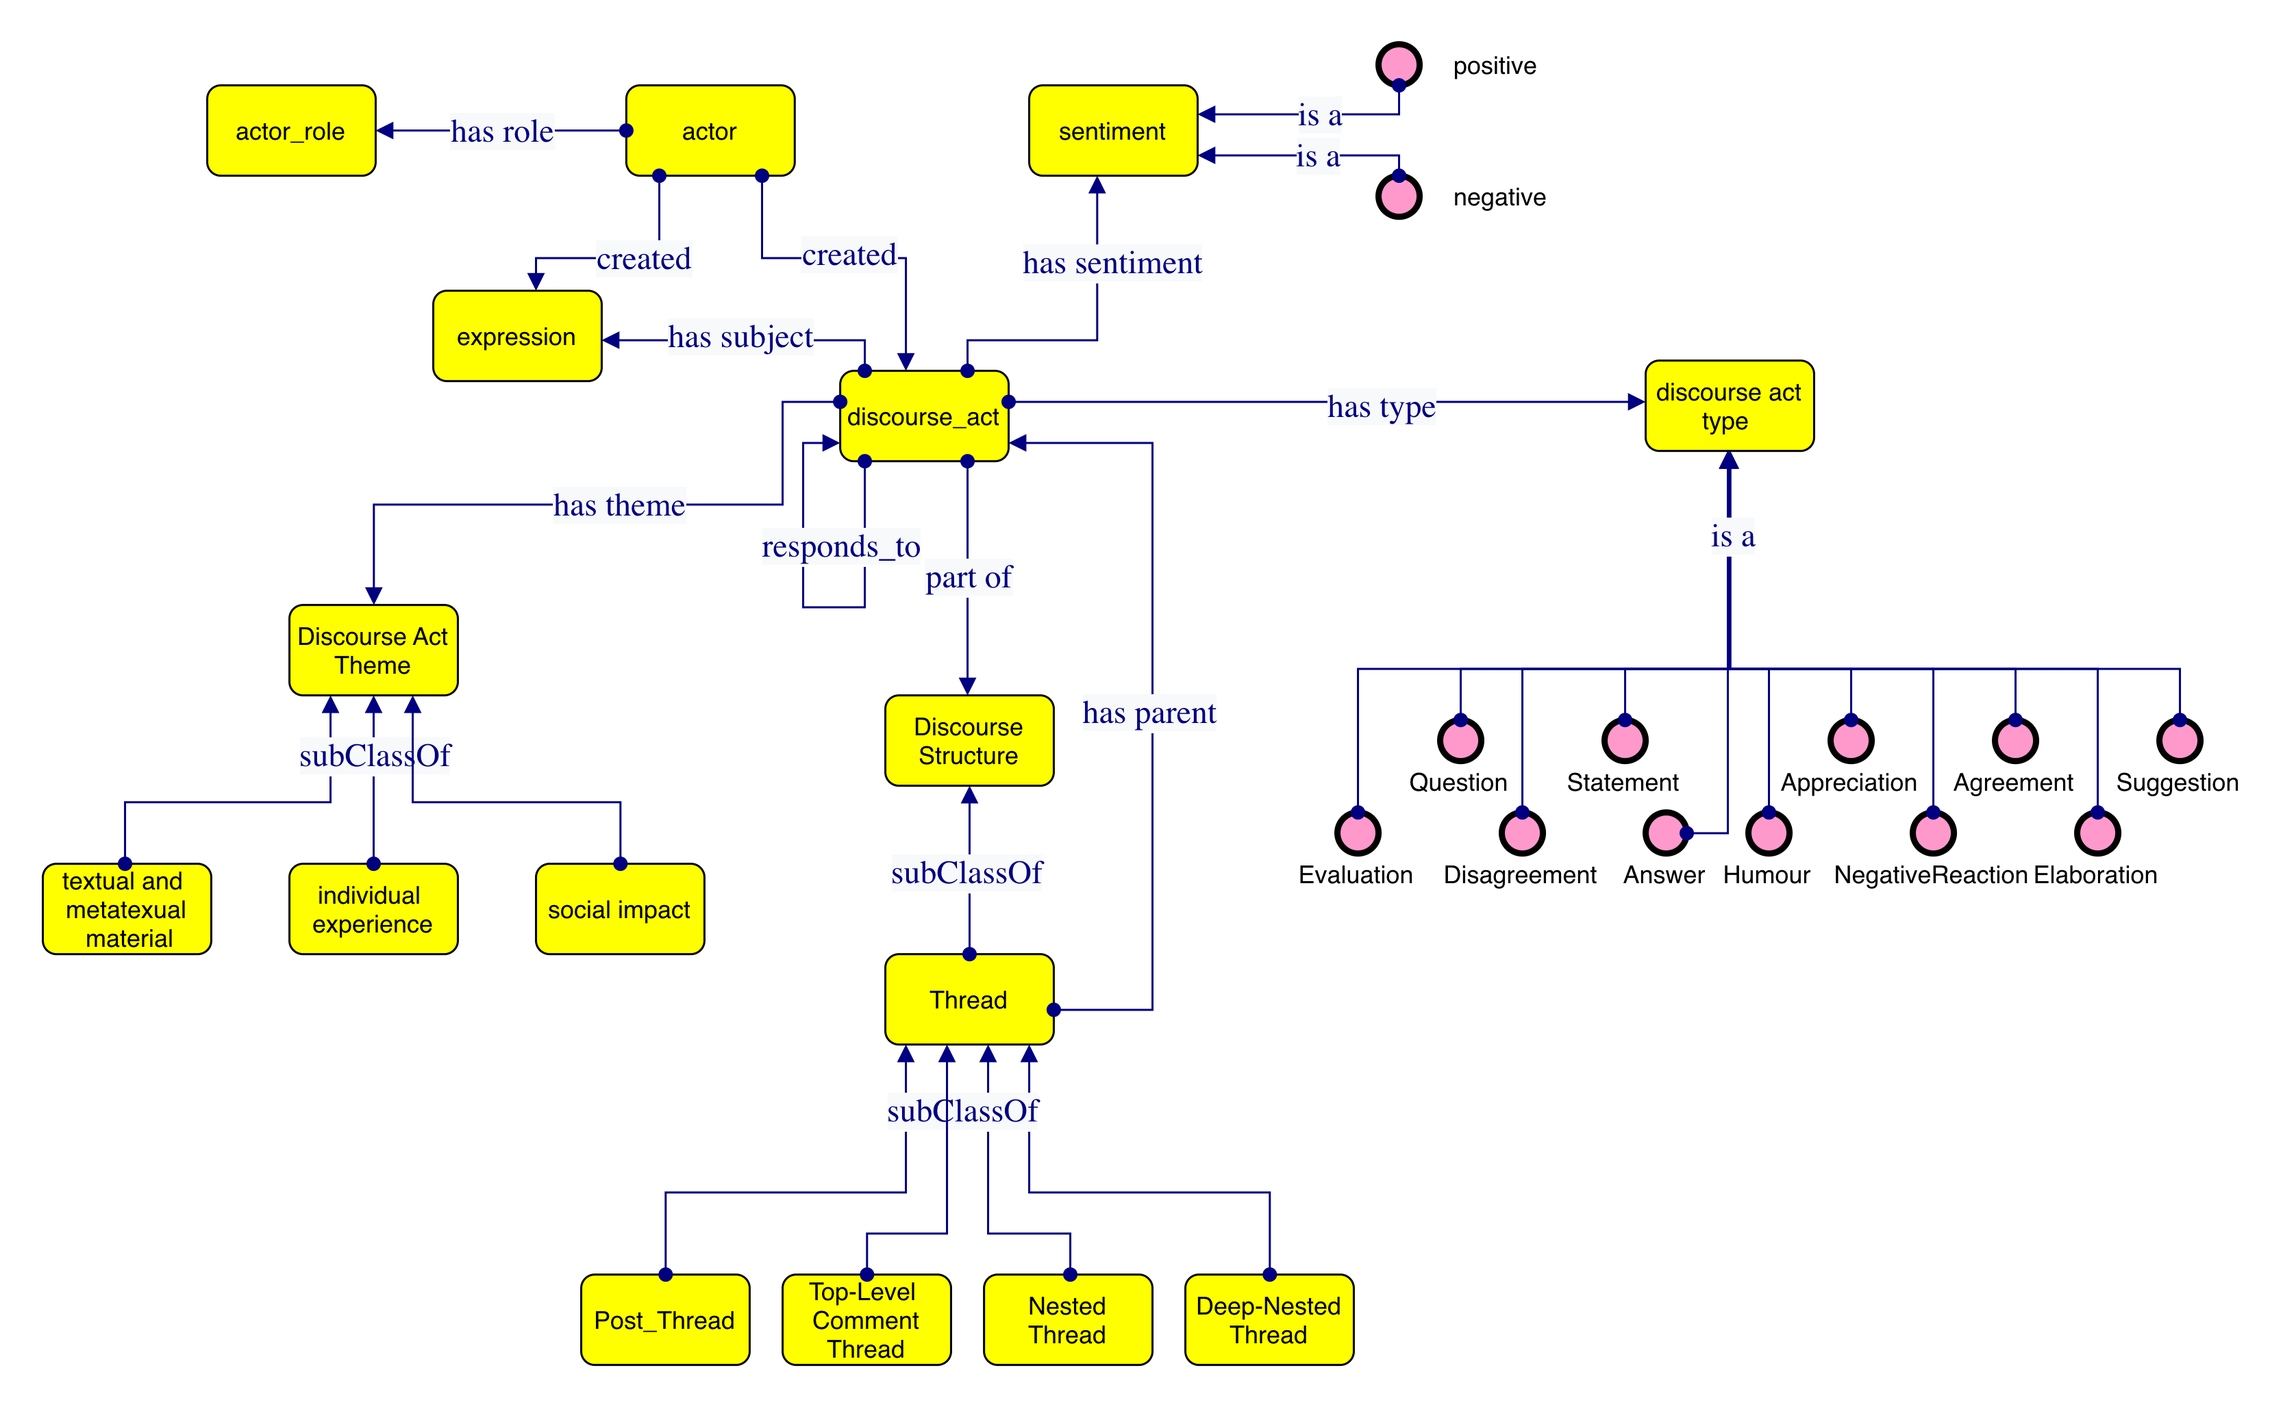
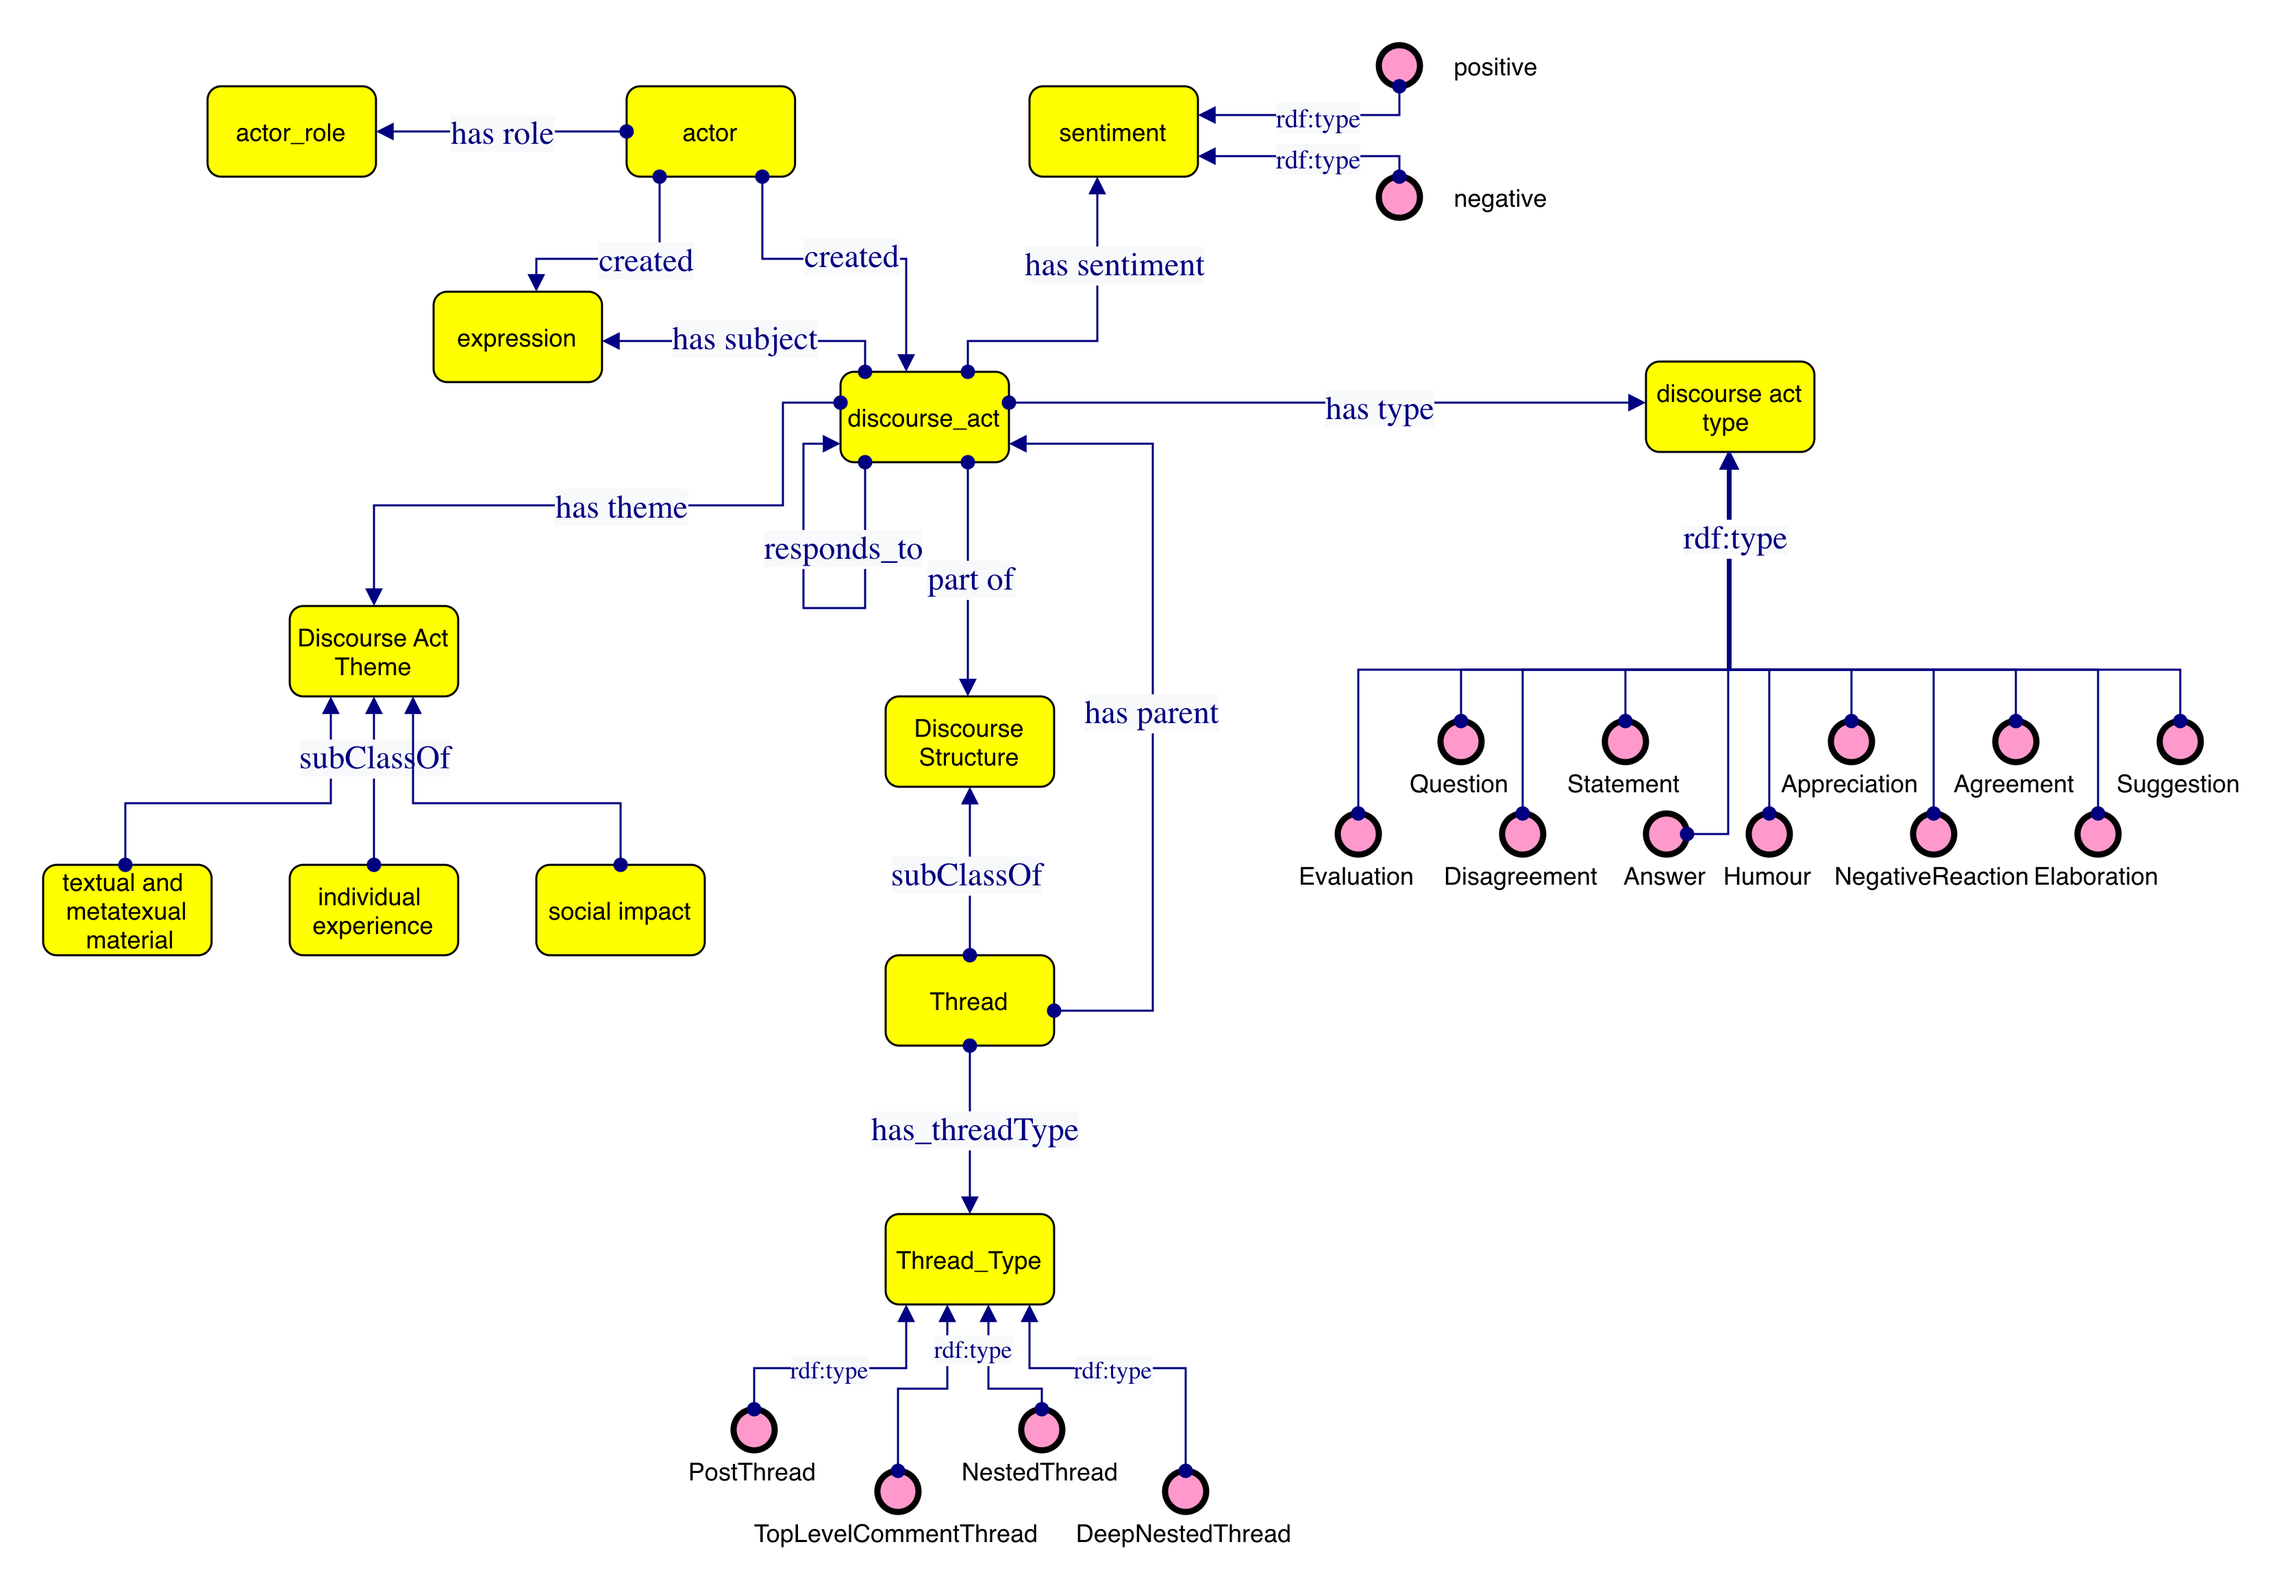
sparql queries

diff --git a/reader_response_module/development/03/modelet_Abox.py b/reader_response_module/development/03/modelet_Abox.py
@@ -25,6 +25,7 @@ g.add((
 DISCOURSE_ACT = RESPONSE_ONT.Discourse_Act
 EXPRESSION = RESPONSE_ONT.Expression
 ACTOR = RESPONSE_ONT.Actor
+THREAD = RESPONSE_ONT.Thread
 
 # read the csv
 # change path to new data modelet
@@ -55,7 +56,7 @@ with open("reader_response_module/development/03/modelet_goodreads.csv", newline
         clause_uri = RESPONSE_DATA[row["clause_id"].strip()]
         g.add((clause_uri, RDF.type, DISCOURSE_ACT))
         g.add((clause_uri, RESPONSE_ONT.has_value, Literal(row["clause_content"].strip())))
-        g.add((clause_uri, RESPONSE_ONT.has_type, RESPONSE_DATA[row["clause_type"].strip()]))
+        g.add((clause_uri, RESPONSE_ONT.has_type, RESPONSE_ONT[row["clause_type"].strip()]))
         if row["clause_theme"]:
             g.add((clause_uri, RESPONSE_ONT.has_theme, RESPONSE_ONT[row["clause_theme"].strip()]))
         if row["clause_sentiment"]:
@@ -76,6 +77,7 @@ with open("reader_response_module/development/03/modelet_ao3.csv", newline='', e
         exp_uri = RESPONSE_DATA["ao3Fanfic"]
         g.add((exp_uri, RDF.type, EXPRESSION))
         g.add((exp_uri, DCTERMS.title, Literal(row["comment_subject"].strip())))
+        g.add((RESPONSE_DATA[row["subject_actor"].strip()], RESPONSE_ONT.created, exp_uri))
 
         post_exp_uri = RESPONSE_DATA["ForeverGirl_Chapter1"]
         g.add((post_exp_uri, RDF.type, EXPRESSION))
@@ -118,12 +120,13 @@ with open("reader_response_module/development/03/modelet_reddit.csv", newline=''
         g.add((post_exp_uri, DCTERMS.title, Literal("Araburu Kisetsu no Otome-domo yo. - Thursday Anime Discussion Thread (ft. /r/anime Writing Club)")))
 
         anime_exp_uri = RESPONSE_DATA["anime"]
-        g.add((exp_uri, RDF.type, EXPRESSION))
-        g.add((exp_uri, DCTERMS.title, Literal(row["comment_subject"].strip())))
+        g.add((anime_exp_uri, RDF.type, EXPRESSION))
+        g.add((anime_exp_uri, DCTERMS.title, Literal(row["comment_subject"].strip())))
 
         #thread
         thread_uri = RESPONSE_DATA[row["thread_id"].strip()]
-        g.add((thread_uri, RDF.type, RESPONSE_ONT[row["thread_type"].strip()]))
+        g.add((thread_uri, RDF.type, THREAD))
+        g.add((thread_uri, RESPONSE_ONT.has_threadType, RESPONSE_ONT[row["thread_type"].strip()]))
 
         #comment
         comment_uri = RESPONSE_DATA[row["comment_id"].strip()]
